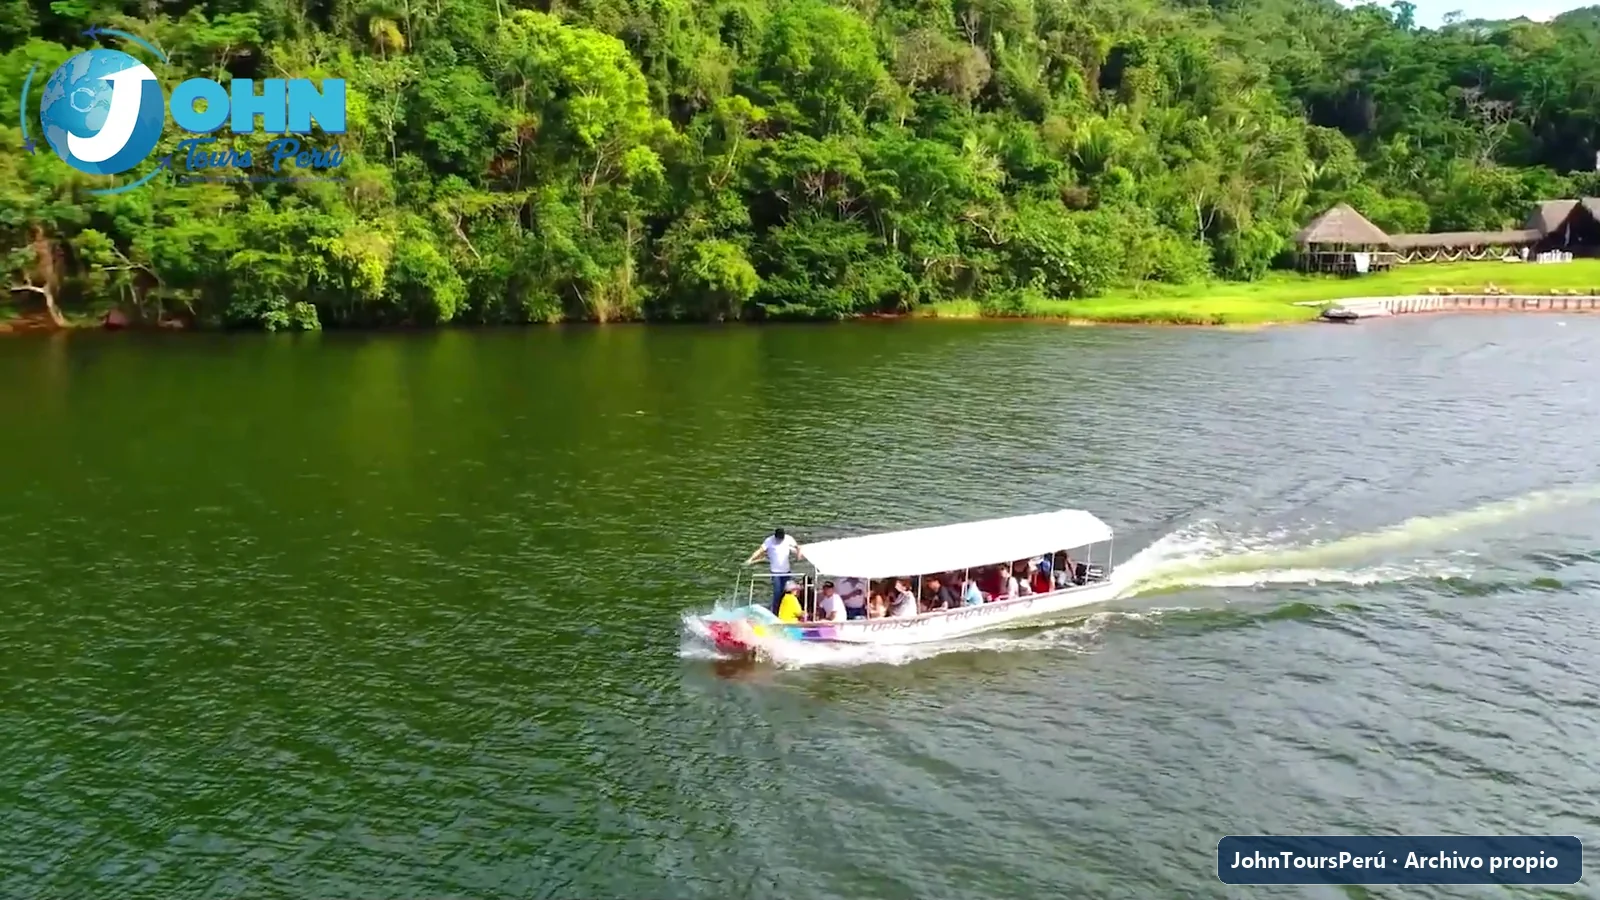
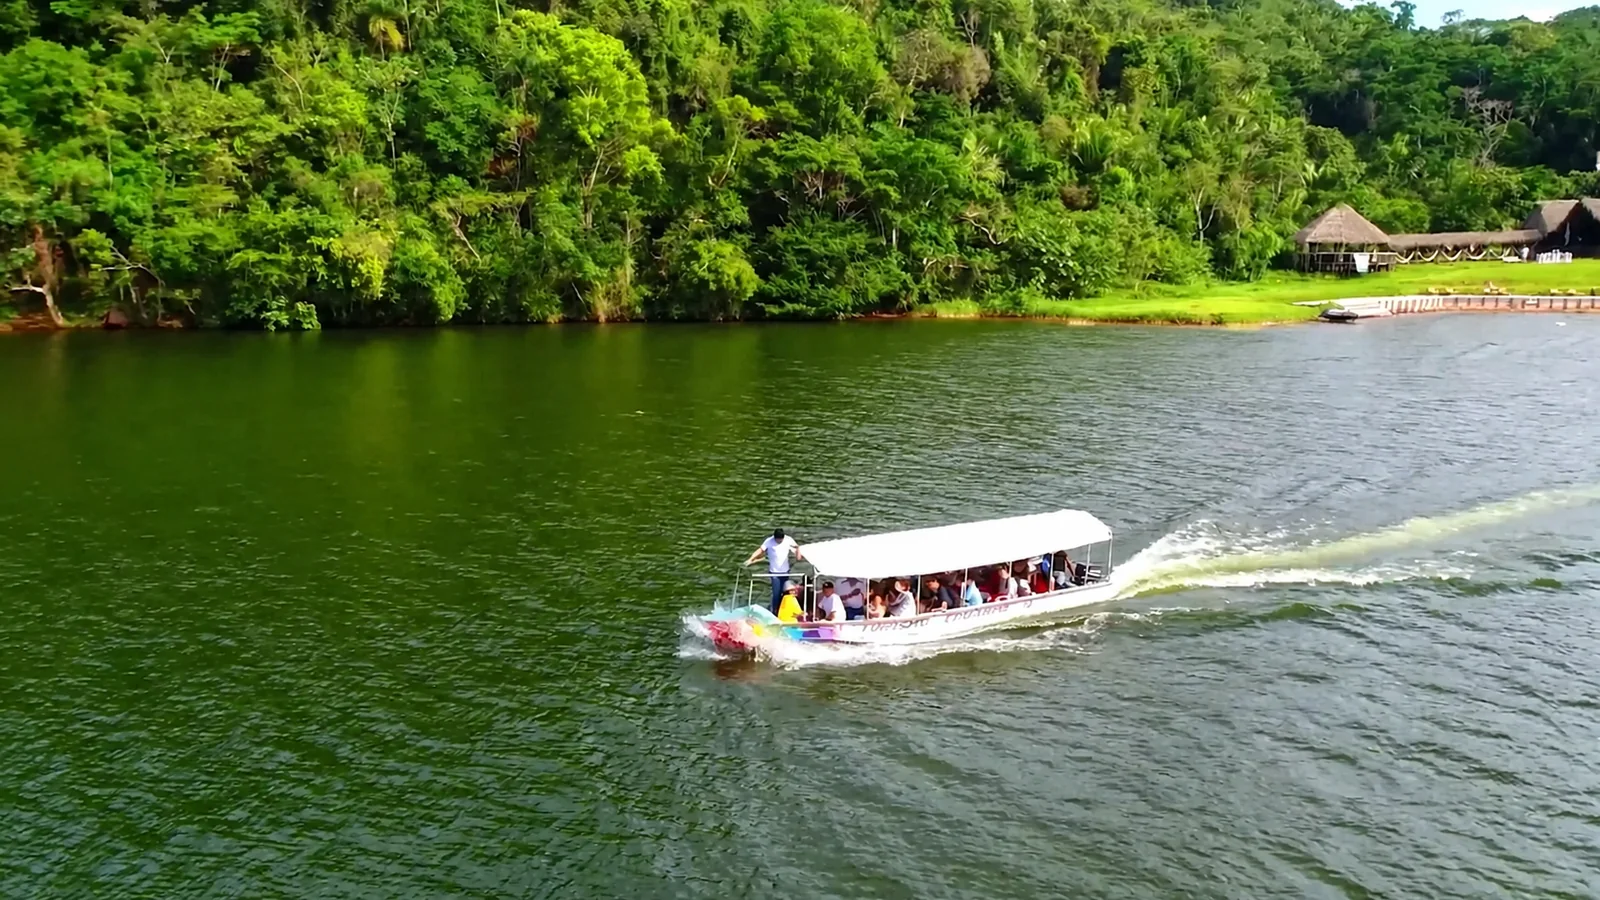
fix: elimina marcas de agua de fotografias

diff --git a/frontend/src/features/tours/config/tourMedia.ts b/frontend/src/features/tours/config/tourMedia.ts
@@ -6,14 +6,12 @@ export type TourMediaItem = {
 };
 
 export type TourMediaCollection = {
-  eyebrow: string;
   introduction: string;
   items: TourMediaItem[];
 };
 
 export const tourMediaBySlug: Record<string, TourMediaCollection> = {
   "machu-picchu": {
-    eyebrow: "Circuito Cusco, Puno y Arequipa",
     introduction: "Una sola propuesta conecta Cusco y Machu Picchu con el lago Titicaca en Puno y la etapa final en Arequipa.",
     items: [
       { image: "/tour-galleries/machu-picchu/cusco-centro.webp", title: "Centro histórico de Cusco", stage: "Inicio de la experiencia", alt: "Viajeros de JohnToursPerú en la Plaza de Armas de Cusco" },
@@ -23,7 +21,6 @@ export const tourMediaBySlug: Record<string, TourMediaCollection> = {
     ]
   },
   "lago-titicaca-ruta-bolivia": {
-    eyebrow: "Ruta altiplánica en el archivo JohnToursPerú",
     introduction: "La propuesta combina paisajes del Titicaca y una conexión terrestre coordinada hacia Bolivia, sujeta a la documentación y condiciones vigentes.",
     items: [
       { image: "/tour-galleries/bolivia/lago-titicaca.webp", title: "Lago Titicaca", stage: "Paisaje y cultura", alt: "Viajeros de JohnToursPerú junto al Lago Titicaca" },
@@ -31,7 +28,6 @@ export const tourMediaBySlug: Record<string, TourMediaCollection> = {
     ]
   },
   "guayaquil-costa-ecuador": {
-    eyebrow: "Guayaquil en el archivo JohnToursPerú",
     introduction: "Una mirada a los espacios urbanos considerados en la experiencia: Malecón, Las Peñas y el entorno de La Perla.",
     items: [
       { image: "/tour-galleries/guayaquil/malecon.webp", title: "Malecón de Guayaquil", stage: "Recorrido urbano", alt: "Grupo de viajeros en el Malecón de Guayaquil" },
@@ -40,7 +36,6 @@ export const tourMediaBySlug: Record<string, TourMediaCollection> = {
     ]
   },
   "ica-y-huacachina": {
-    eyebrow: "Ica en el archivo JohnToursPerú",
     introduction: "La experiencia se concentra en las dunas de Huacachina, el paseo en tubular y las actividades que se confirman con el asesor.",
     items: [
       { image: "/tour-galleries/ica/dunas.webp", title: "Dunas de Huacachina", stage: "Atardecer en el desierto", alt: "Grupo de viajeros en las dunas de Huacachina" },
@@ -48,7 +43,6 @@ export const tourMediaBySlug: Record<string, TourMediaCollection> = {
     ]
   },
   "oxapampa-pozuzo": {
-    eyebrow: "Pozuzo en el archivo JohnToursPerú",
     introduction: "El paquete reúne identidad local, paisajes de selva alta y experiencias culturales que se ajustan a la fecha elegida.",
     items: [
       { image: "/tour-galleries/pozuzo/portico.webp", title: "Pórtico de Pozuzo", stage: "Bienvenida al destino", alt: "Visitantes en el pórtico tradicional de Pozuzo" },

diff --git a/frontend/src/features/tours/TourApplication.tsx b/frontend/src/features/tours/TourApplication.tsx
@@ -38,7 +38,6 @@ const demoTours: Tour[] = [
     type: "NACIONAL",
     availableSlots: 0,
     imageUrl: "/destinations/machu-picchu.webp",
-    imageCredit: "Archivo propio de JohnToursPerú",
     isFeatured: true,
     status: "ACTIVO",
     itinerary: [
@@ -67,7 +66,6 @@ const demoTours: Tour[] = [
     type: "INTERNACIONAL",
     availableSlots: 0,
     imageUrl: "/destinations/ecuador-costa.webp",
-    imageCredit: "Fotografía propia de La Perla, Guayaquil",
     isFeatured: true,
     status: "ACTIVO",
     itinerary: [
@@ -92,7 +90,6 @@ const demoTours: Tour[] = [
     type: "NACIONAL",
     availableSlots: 0,
     imageUrl: "/destinations/oxapampa-pozuzo.webp",
-    imageCredit: "Archivo propio de JohnToursPerú",
     isFeatured: true,
     status: "ACTIVO",
     itinerary: [
@@ -118,7 +115,6 @@ const demoTours: Tour[] = [
     type: "NACIONAL",
     availableSlots: 0,
     imageUrl: "/destinations/ica-huacachina.webp",
-    imageCredit: "Fotograma de archivo propio de JohnToursPerú",
     isFeatured: true,
     status: "ACTIVO",
     itinerary: [
@@ -142,7 +138,6 @@ const demoTours: Tour[] = [
     type: "NACIONAL",
     availableSlots: 0,
     imageUrl: "/destinations/tarapoto.webp",
-    imageCredit: "Fotograma de archivo propio de JohnToursPerú",
     isFeatured: true,
     status: "ACTIVO",
     itinerary: [
@@ -253,7 +248,6 @@ const demoTours: Tour[] = [
     type: "INTERNACIONAL",
     availableSlots: 0,
     imageUrl: "/travel-archive/lago-titicaca.webp",
-    imageCredit: "Archivo propio de JohnToursPerú",
     isFeatured: false,
     status: "ACTIVO",
     itinerary: [
@@ -331,7 +325,7 @@ const demoTours: Tour[] = [
     id: 16, title: "Cusco, Ica y Lima 2027", slug: "cusco-ica-lima-2027", destination: "Cusco, Ica y Lima, Perú",
     description: "Ruta privada por la historia inca, Machu Picchu, la Montaña de Siete Colores, Lima histórica, Paracas y Huacachina.",
     price: 1428, priceIsEstimated: true, currency: "USD", duration: "9 días / 8 noches", type: "NACIONAL", availableSlots: 0,
-    imageUrl: "/destinations/ica-huacachina.webp", imageCredit: "Fotograma de archivo propio de JohnToursPerú", isFeatured: false, status: "ACTIVO",
+    imageUrl: "/destinations/ica-huacachina.webp", isFeatured: false, status: "ACTIVO",
     itinerary: itineraryCatalog.find((item) => item.id === "cusco-ica-lima")?.days,
     includes: ["Vuelos Lima–Cusco–Lima según cotización", "Alojamiento y desayunos señalados", "Traslados, accesos y excursiones indicadas", "Asistencia de JohnToursPerú"],
     excludes: ["Vuelos internacionales", "Actividades opcionales", "Servicios no detallados y gastos personales"],

diff --git a/frontend/src/features/tours/components/TourMediaGallery.tsx b/frontend/src/features/tours/components/TourMediaGallery.tsx
@@ -1,4 +1,4 @@
-import { Camera, MapPinned, ShieldCheck } from "lucide-react";
+import { Camera, MapPinned } from "lucide-react";
 import { tourMediaBySlug } from "../config/tourMedia";
 
 export function TourMediaGallery({ tourSlug }: { tourSlug: string }) {
@@ -9,11 +9,10 @@ export function TourMediaGallery({ tourSlug }: { tourSlug: string }) {
     <section className="tour-media-gallery" aria-labelledby={`tour-media-${tourSlug}`}>
       <div className="tour-media-heading">
         <div>
-          <span><Camera size={15} /> Fotografías propias</span>
+          <span><Camera size={15} /> Galería del destino</span>
           <h3 id={`tour-media-${tourSlug}`}>Así se vive esta ruta</h3>
           <p>{gallery.introduction}</p>
         </div>
-        <div className="tour-media-origin"><ShieldCheck size={18} /><span><strong>Archivo seleccionado</strong><small>{gallery.eyebrow}</small></span></div>
       </div>
       <div className={`tour-media-grid tour-media-grid-${gallery.items.length}`}>
         {gallery.items.map((item) => (
@@ -26,7 +25,7 @@ export function TourMediaGallery({ tourSlug }: { tourSlug: string }) {
           </figure>
         ))}
       </div>
-      <p className="tour-media-disclaimer">Selección visual del archivo propio. La secuencia definitiva, horarios, accesos y servicios se confirman al reservar.</p>
+      <p className="tour-media-disclaimer">La secuencia definitiva, horarios, accesos y servicios se confirman al reservar.</p>
     </section>
   );
 }

diff --git a/README.md b/README.md
@@ -16,6 +16,7 @@ Web publicitaria fullstack para captar clientes, mostrar tours nacionales e inte
 - Evidencia operativa integrada en el mismo apartado con recepción en aeropuerto y equipo de acompañamiento, sin crear una sección extensa adicional en la portada.
 - Galerías específicas dentro de los paquetes de Machu Picchu, Lago Titicaca–Bolivia, Guayaquil, Ica–Huacachina y Oxapampa–Pozuzo; cada fotografía se vincula con una etapa pública del itinerario y no revela horarios ni datos operativos privados.
 - Quince nuevas fotografías WebP optimizadas procedentes de las siete carpetas temáticas —Aeropuerto, Bolivia, Cusco, Equipo John, Guayaquil, Ica y Pozuzo—, sin metadatos EXIF/GPS, sin marcas de agua añadidas y sin publicar los originales de alta resolución.
+- Auditoría visual de las 40 fotografías públicas: se retiraron el logotipo y la etiqueta «Archivo propio» de las imágenes de Ica–Huacachina y Tarapoto, y las galerías ya no superponen información de procedencia sobre el material turístico.
 - Un único microvideo seleccionado de Tarapoto (7 segundos, sin audio y menos de 2 MB), disponible en su promoción y detalle con carga bajo demanda. Los clips con primeros planos o transiciones de menor calidad fueron descartados.
 - Carrusel editorial de promociones con fotografías, video bajo demanda, comentario, fecha referencial, aviso de demostración y acceso directo al paquete.
 - Reel promocional propio de Machu Picchu seleccionado del archivo `E:\REELS VIAJES DE PROMOCIÓN`, recortado a 18 segundos, silenciado y optimizado a aproximadamente 2.2 MB para carga bajo demanda.
